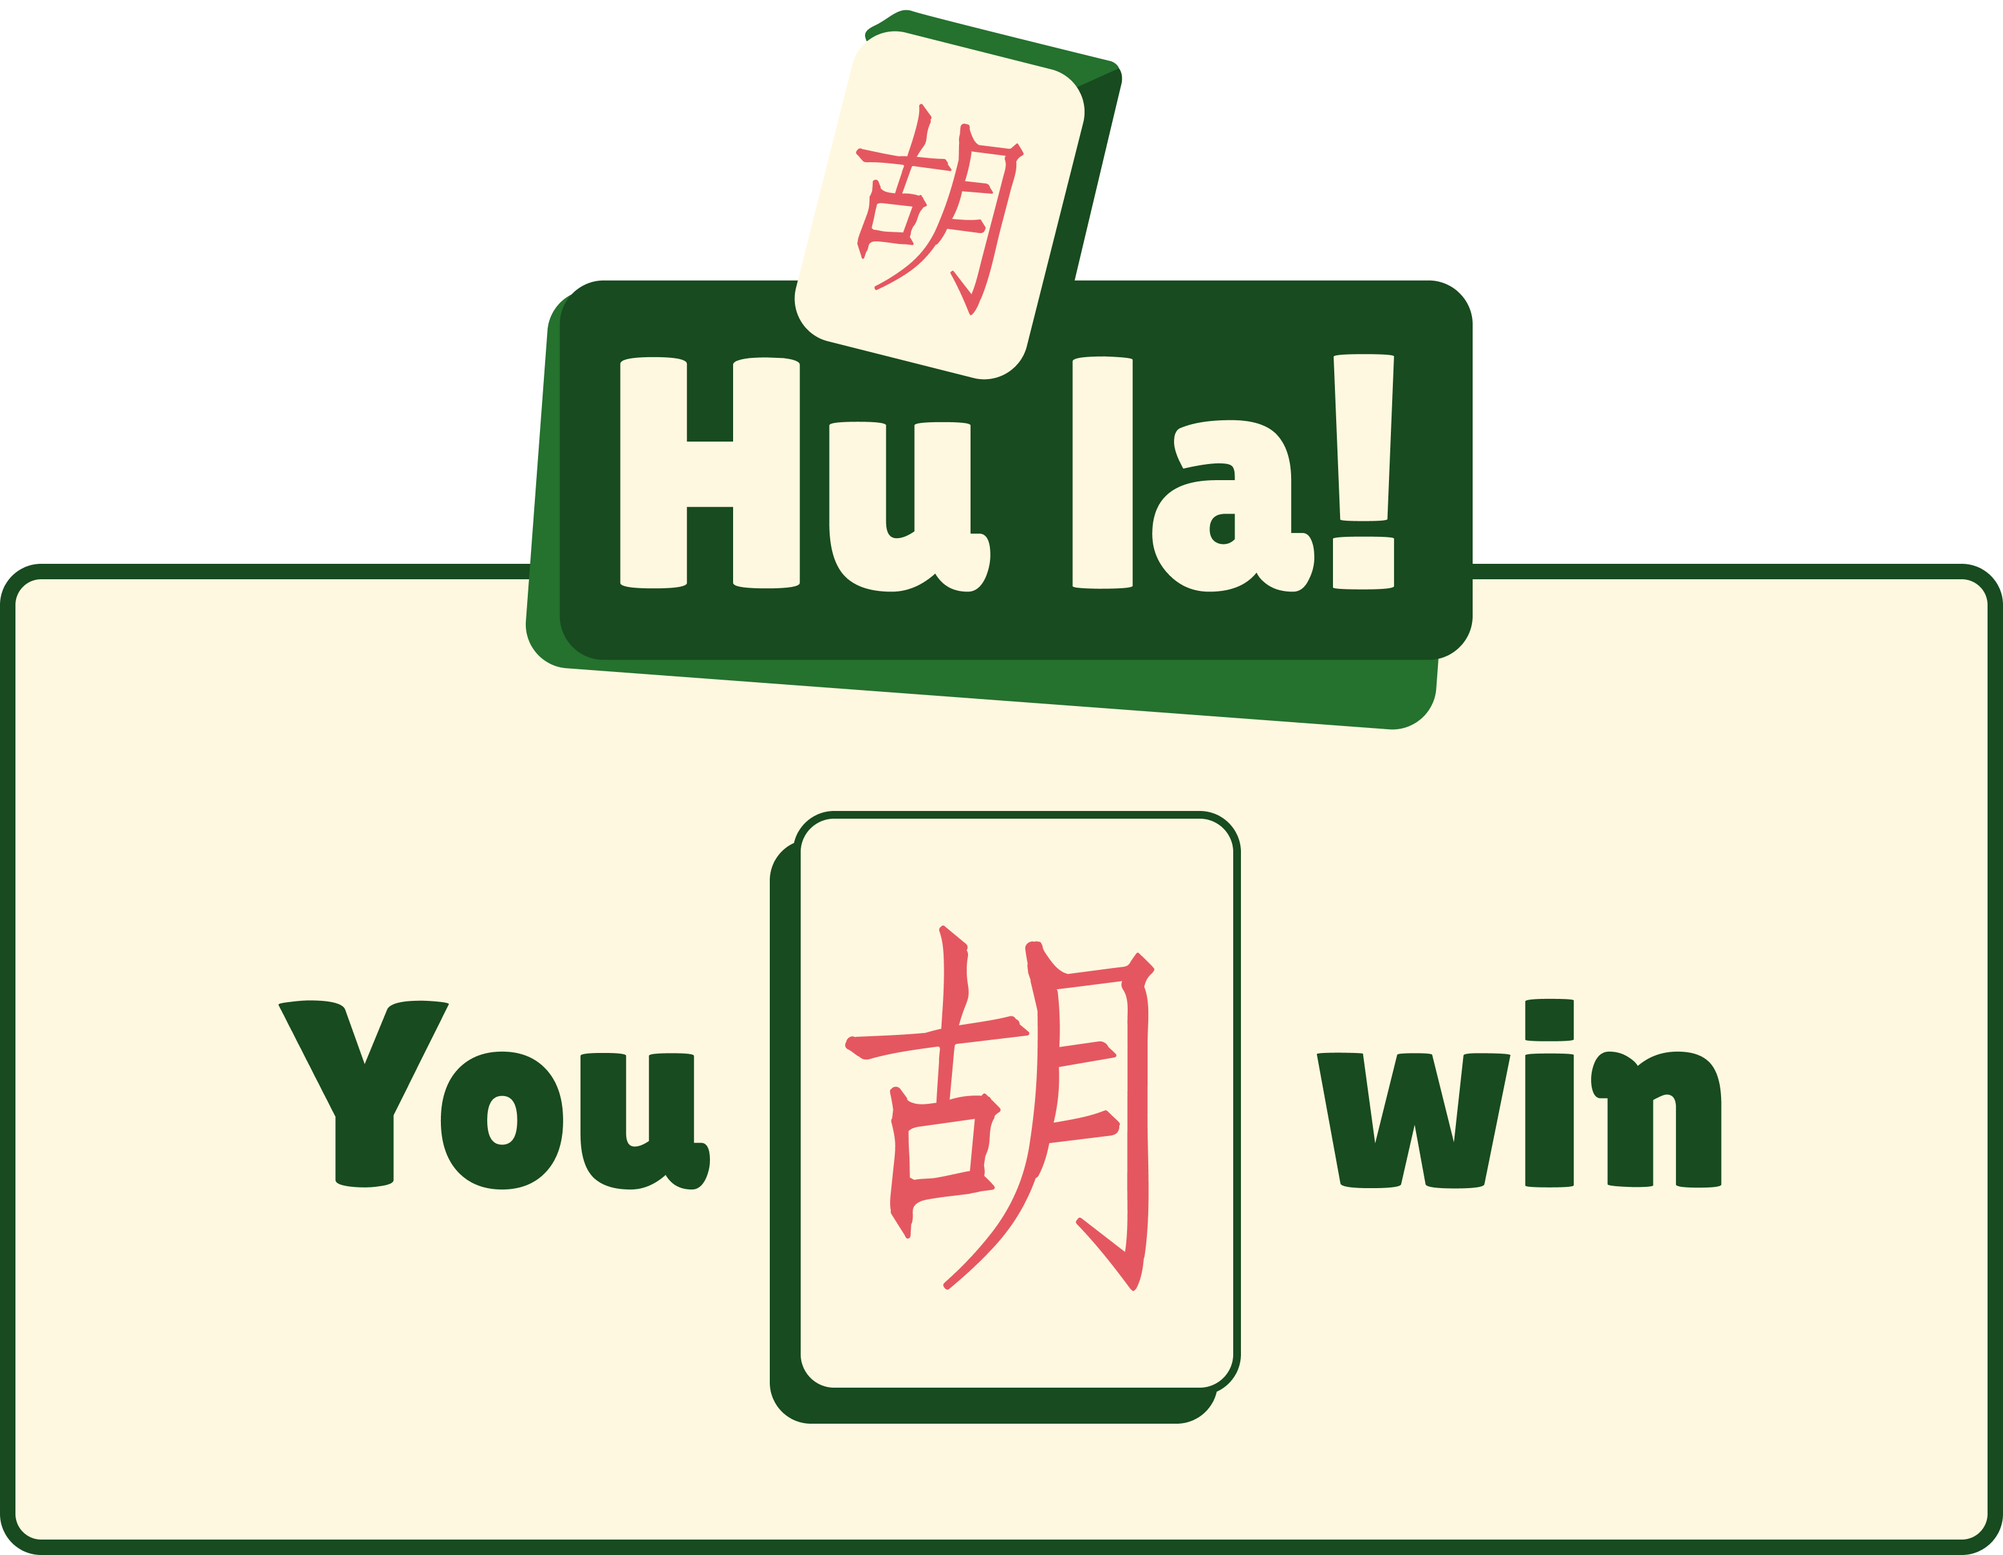
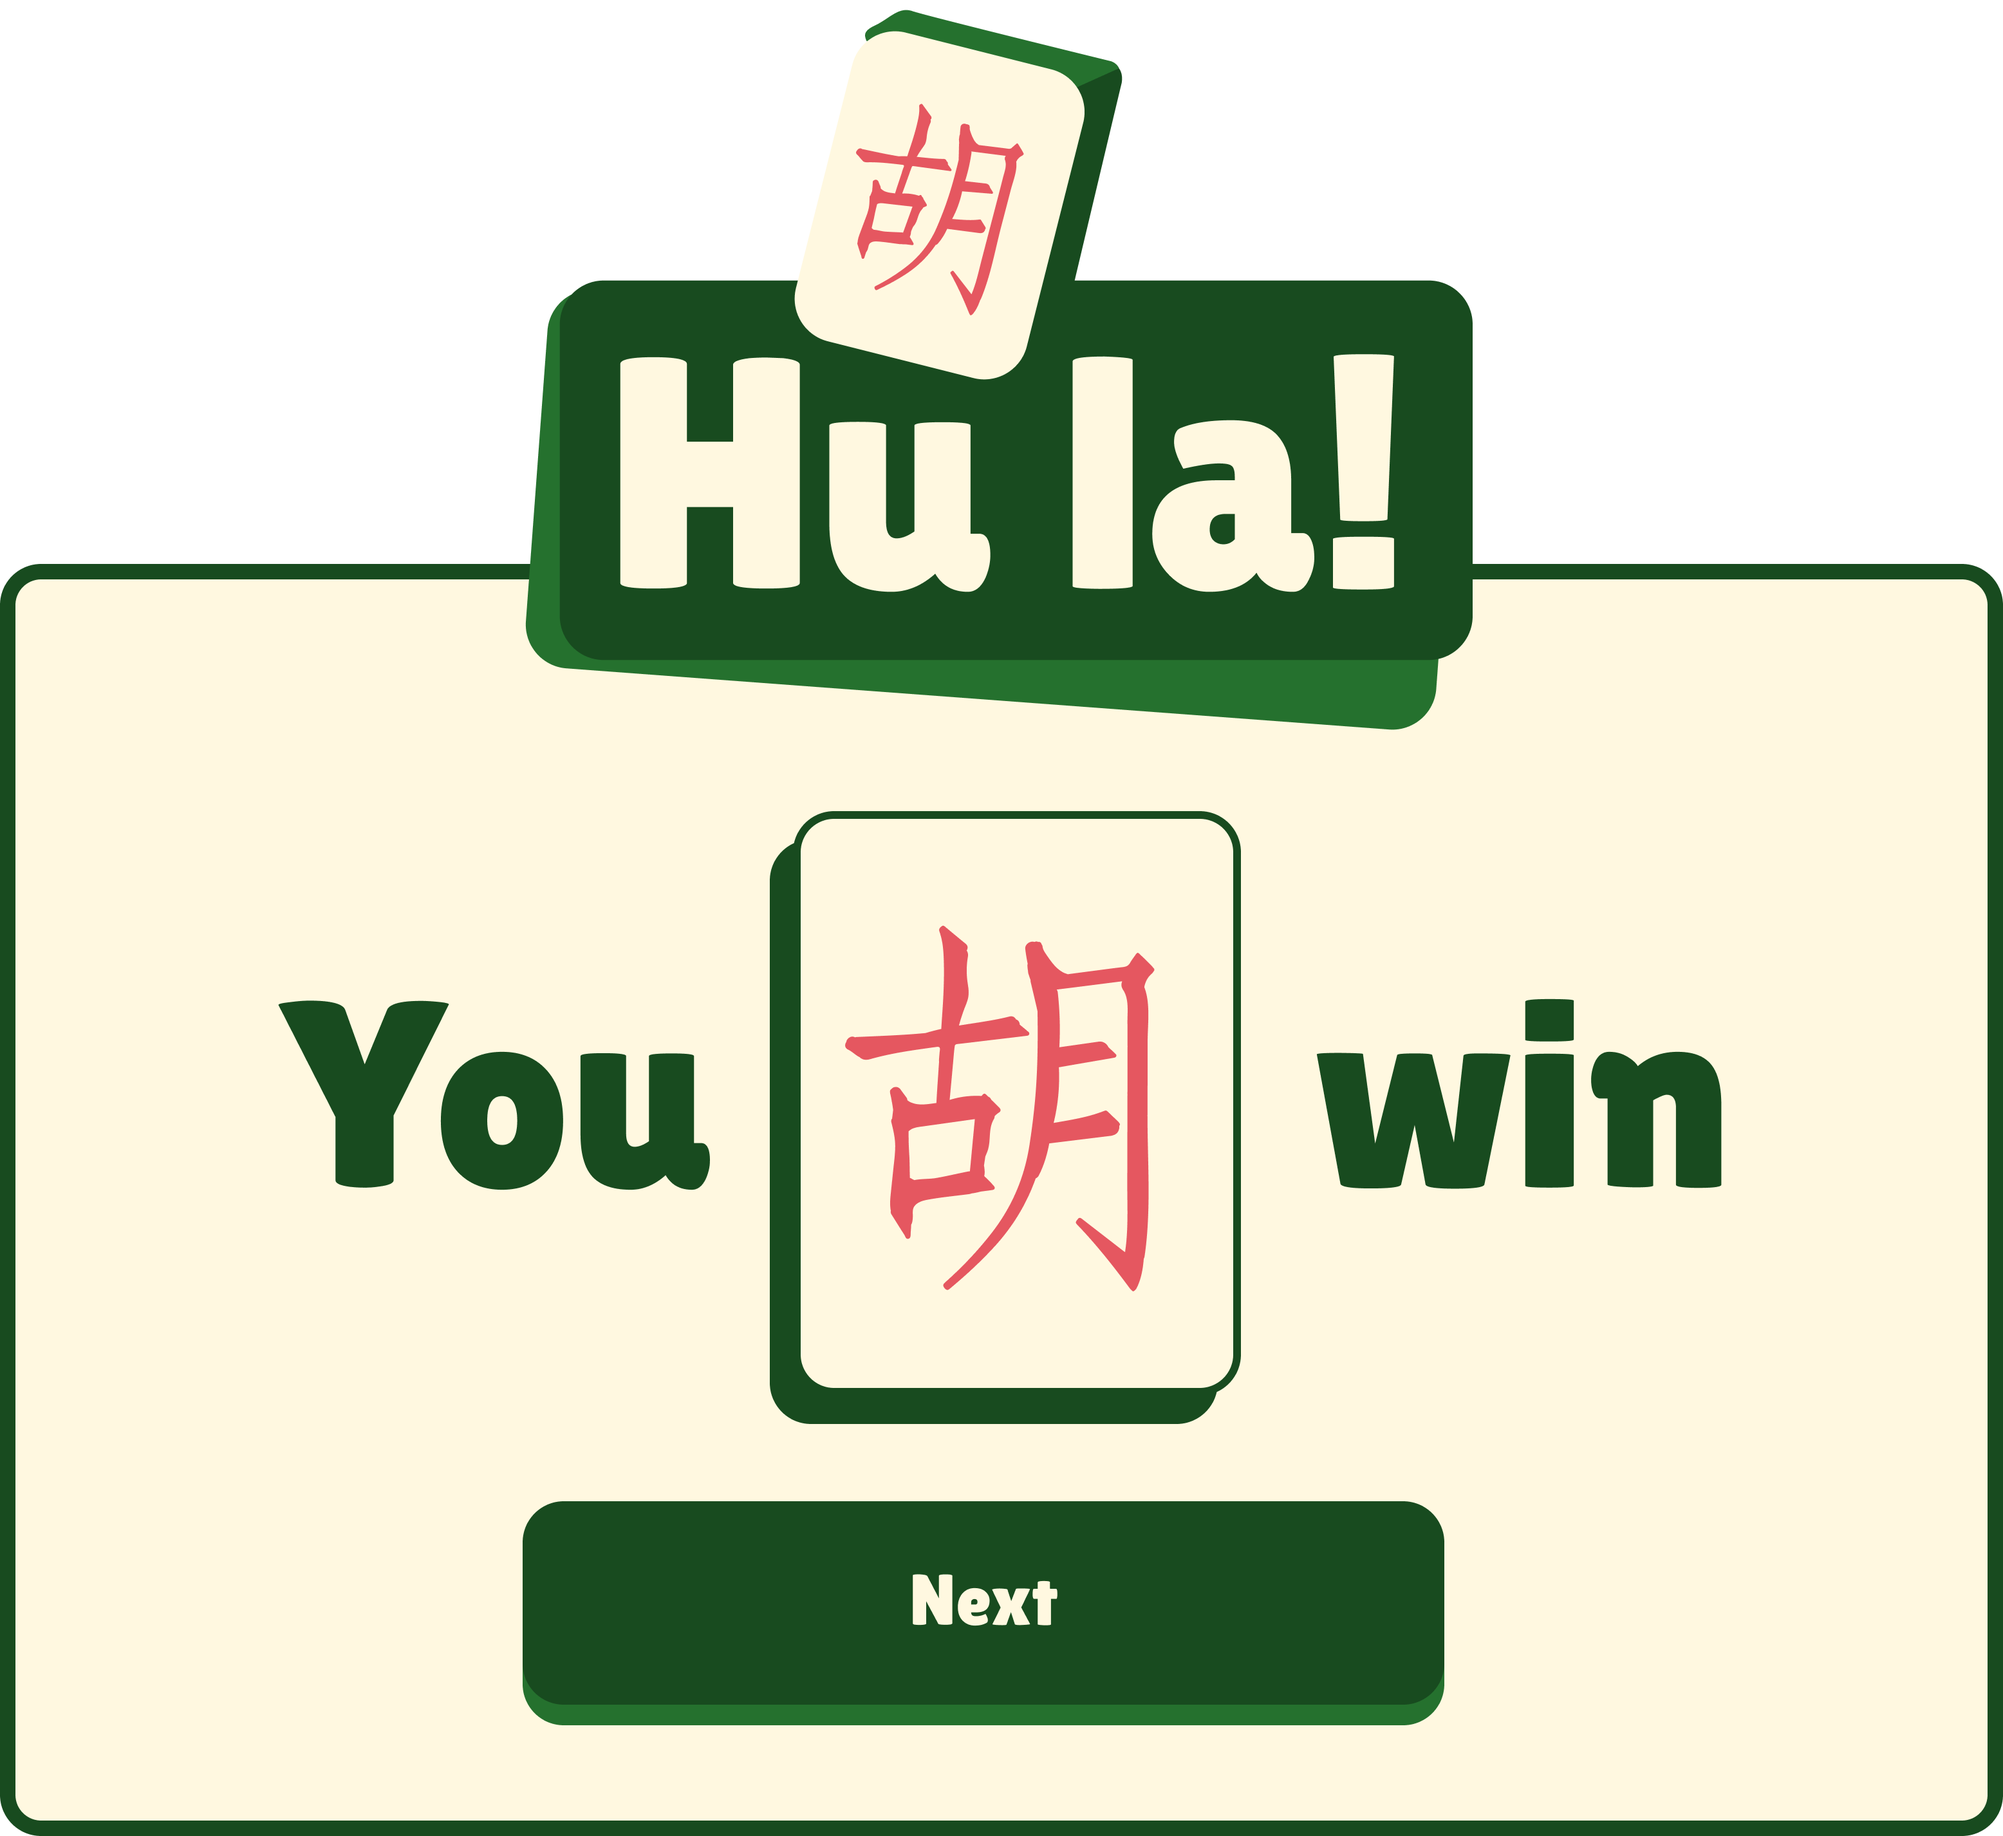
Update

Changed region(s): [[0.0, 0.0, 1.0, 0.9623], [0.6546, 0.5277, 0.8728, 0.7761], [0.9974, 0.9623, 1.0, 0.9934]]

diff --git a/script.js b/script.js
@@ -391,13 +391,17 @@ for(let x = 1; x < 5; x++){
                 small.src = "./img/wrong.png"
                 correct.classList.remove("hide")
             }
-            let delay = setTimeout(()=>{
-                correct.classList.add("hide")
-                Question()
-                small.src = ""
-            }, 1000)
     })
 }
+
+correct.addEventListener("click", () => {
+    playClickSound()
+    let delay = setTimeout(() => {
+        correct.classList.add("hide")
+        Question()
+        small.src = ""
+    }, 200);
+})
 
 function Began(){
     current = 0;

diff --git a/style.css b/style.css
@@ -179,7 +179,7 @@ div{
     color: #FFF8E0;
 }
 .small{
-    width: 90vmin;
+    width: 60%;
 }
 .imgBig{
     width: 40vh;
@@ -250,6 +250,9 @@ div{
     }
     .imgMid{
         width: 50%;
+    }
+    .small{
+        width: 30%;
     }
 }
 
